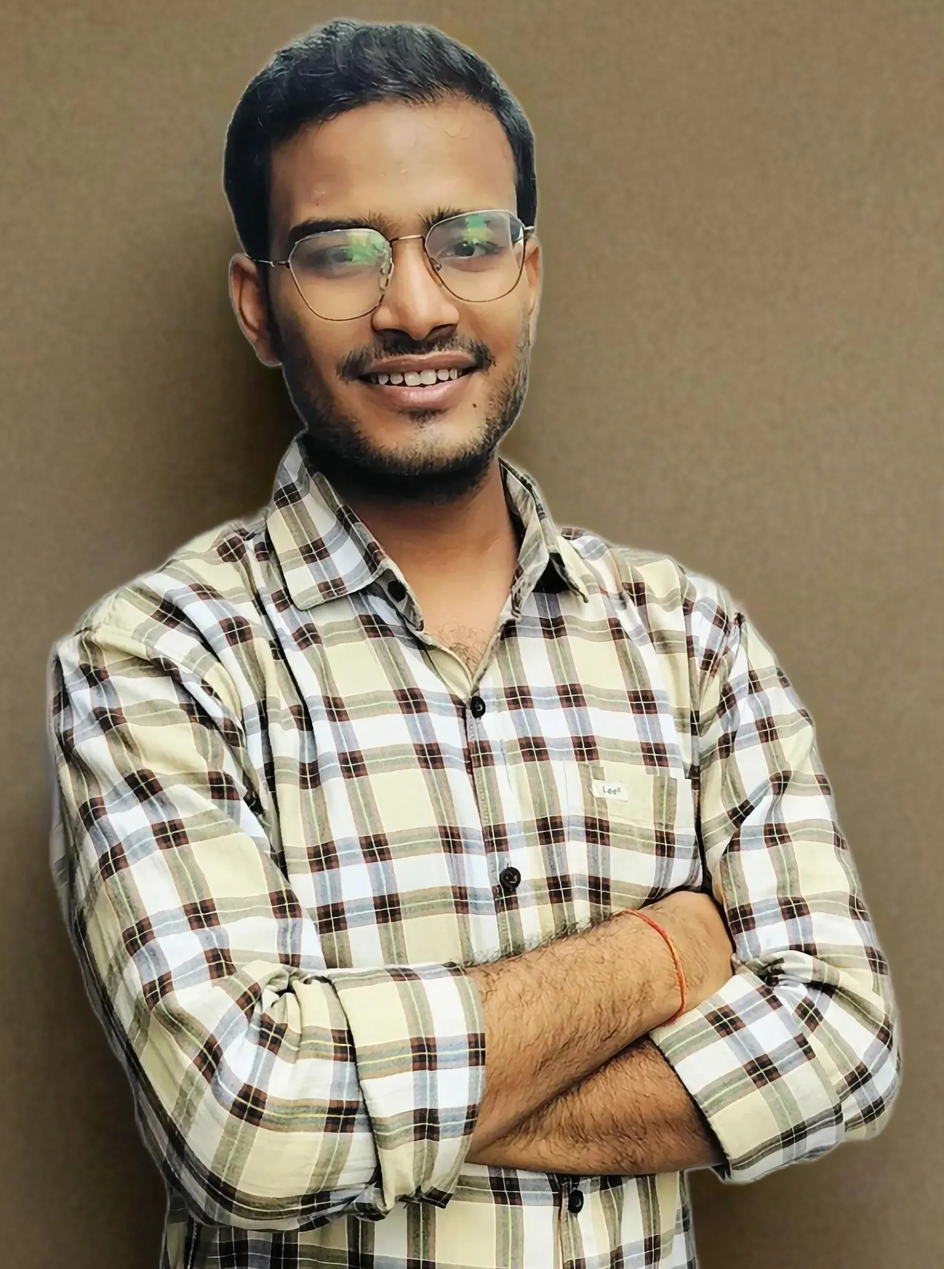
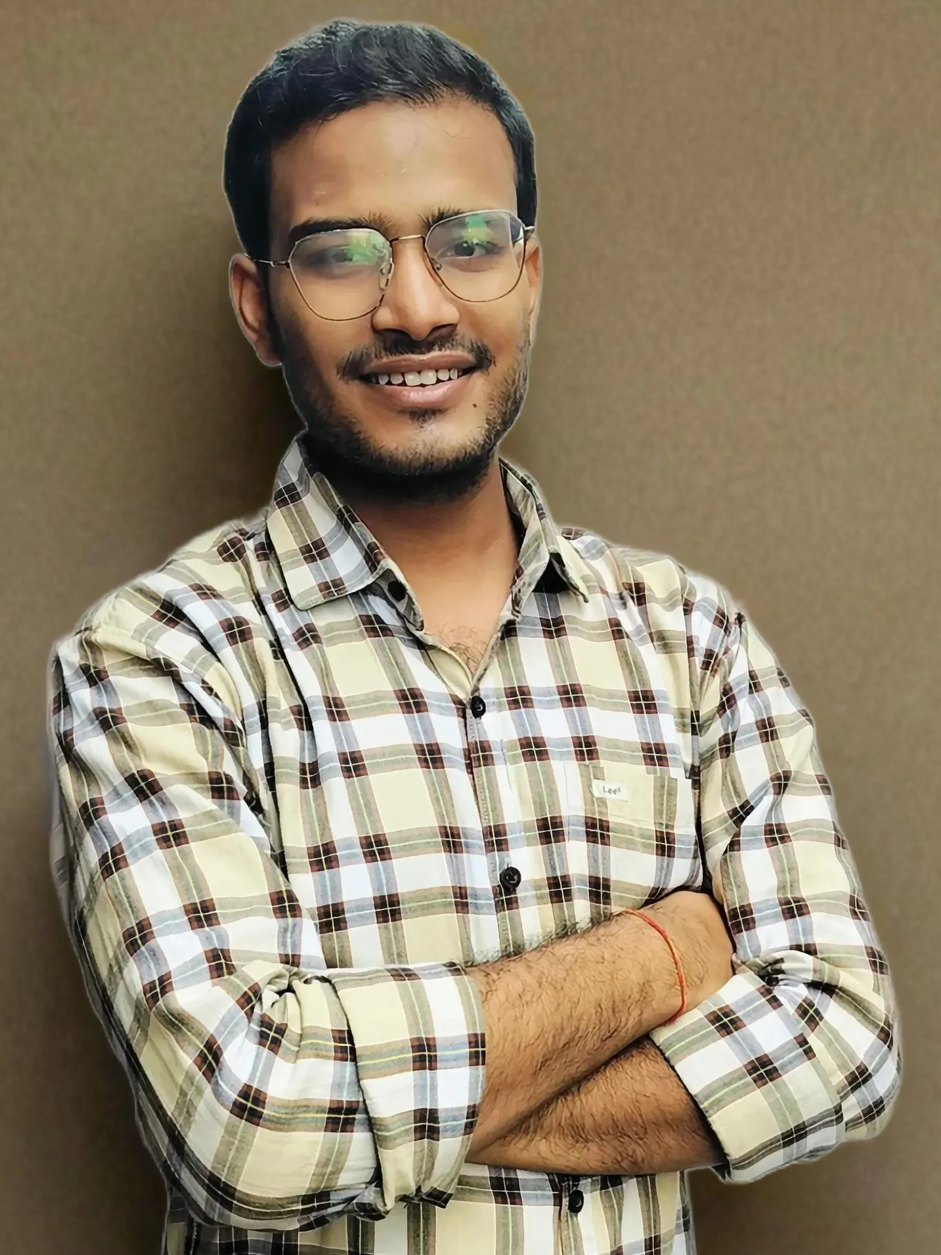
small update

diff --git a/src/components/description.jsx b/src/components/description.jsx
@@ -49,7 +49,7 @@ const Description = () => {
               initial={{ x: 100, opacity: 0 }}
               animate={{ x: 0, opacity: 1 }}
               transition={{ duration: 1, delay: 1.2 }}
-              className="rounded-2xl"
+              className="rounded-2xl h-[450px] w-auto"
               src={profilePic}
               alt="profile"
             />
